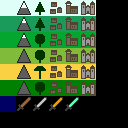
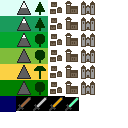
capitals & textures

diff --git a/include/GameClass.hpp b/include/GameClass.hpp
@@ -47,6 +47,7 @@ class Game{
                 GenerateForest();
                 GenerateMountains();
                 AdjustMountainZones();
+                GenerateCapitals();
                 InitButtons();
                 m_buttonsObjects.emplace_back(
                     m_renderer,m_font,m_buttons[0],
@@ -54,10 +55,21 @@ class Game{
                     m_width-(m_width/10),
                     0,
                     m_width/10,m_width/10,240,240,240);
-                    CreateMapTexture(); 
+                    CreateMapTexture();
+                    m_atlasTexture = SDL_CreateTextureFromSurface(m_renderer, m_atlasSurface);
+                    if (!m_atlasTexture) {
+                        SDL_Log("Failed to create atlas texture: %s", SDL_GetError());
+                    }
+                    if (m_atlasTexture) {
+                        SDL_SetTextureScaleMode(m_atlasTexture, SDL_SCALEMODE_PIXELART);
+                    }
+                    m_atlasTileSize = m_atlasSurface->w / 8;
+                    SDL_DestroySurface(m_atlasSurface);
+                    m_atlasSurface = nullptr;
         }
         ~Game() {
             if (m_mapTexture) SDL_DestroyTexture(m_mapTexture);
+            if (m_atlasTexture) SDL_DestroyTexture(m_atlasTexture);
         }
         void Render() {
             SDL_SetRenderDrawColor(m_renderer, 0, 0, 0, 255);
@@ -85,12 +97,32 @@ class Game{
                     SDL_RenderTexture(m_renderer, m_mapTexture, nullptr, &dest);
                 }
             }
+            RenderBuildings();
 
             SDL_SetRenderClipRect(m_renderer, nullptr);
 
             m_buttonsObjects[0].RenderButton();
         }
+        void RenderBuildings() {
+            float tileSize = (m_height / N) * zoom;
+            for (int i = 0; i < N; ++i) {
+                for (int j = 0; j < N; ++j) {
+                    const Tile& tile = Map[i * N + j];
+                    if (tile.buildingLevel == 0) continue;
 
+                    float screenX = Otstup + (j - panX) * tileSize;
+                    float screenY = (i - panY) * tileSize;
+
+                    int srcX0 = (2 + tile.buildingLevel) * m_atlasTileSize;
+                    int srcY0 = (tile.zone >= 0) ? tile.zone * m_atlasTileSize : 0;
+
+                    SDL_FRect srcRect = { (float)srcX0, (float)srcY0, (float)m_atlasTileSize, (float)m_atlasTileSize };
+                    SDL_FRect dstRect = { screenX, screenY, tileSize, tileSize };
+
+                    SDL_RenderTexture(m_renderer, m_atlasTexture, &srcRect, &dstRect);
+                }
+            }
+        }
         void CreateMap() {
             std::mt19937 rng(Seed);
             std::vector<int> permutation(256);
@@ -221,8 +253,7 @@ class Game{
                     }
 
                     Map[i * N + j] = {static_cast<uint16_t>(i), static_cast<uint16_t>(j), 
-                    static_cast<uint8_t>(biome), static_cast<int8_t>(zone)};
-                    Map[i * N + j].mountain = false;
+                    static_cast<uint8_t>(biome), static_cast<int8_t>(zone), false, false, 0};
                 }
             }
             m_perm = p;
@@ -504,6 +535,43 @@ class Game{
             }
             Map = std::move(newMap);
         }
+        void GenerateCapitals() {
+            const int targetCount = 100;
+            const float minDist = 10.0f;
+            std::vector<std::pair<int,int>> positions;
+            std::mt19937 rng(Seed);
+            std::uniform_int_distribution<int> dist(0, N-1);
+
+            auto distance = [&](int x1, int y1, int x2, int y2) {
+                int dx = std::abs(x1 - x2);
+                int dy = std::abs(y1 - y2);
+                dx = std::min(dx, N - dx);
+                dy = std::min(dy, N - dy);
+                return std::sqrt(dx*dx + dy*dy);
+            };
+
+            int attempts = 0;
+            const int maxAttempts = 10000;
+            while (positions.size() < targetCount && attempts < maxAttempts) {
+                int x = dist(rng);
+                int y = dist(rng);
+                int idx = y * N + x;
+                if (Map[idx].biome != 0) continue;
+
+                bool ok = true;
+                for (auto& pos : positions) {
+                    if (distance(x, y, pos.first, pos.second) < minDist) {
+                        ok = false;
+                        break;
+                    }
+                }
+                if (ok) {
+                    positions.emplace_back(x, y);
+                    Map[idx].buildingLevel = 3;
+                }
+                attempts++;
+            }
+        }
         void HandleTileClick(int mouseX, int mouseY) {
             if (mouseX >= Otstup && mouseX <= Otstup + m_height && mouseY >= 0 && mouseY <= m_height) {
                 float tileSize = (m_height / N) * zoom;
@@ -602,6 +670,7 @@ class Game{
             int8_t zone;
             bool forest;
             bool mountain;
+            uint8_t buildingLevel;
         };
         
         void InitButtons(){
@@ -610,6 +679,7 @@ class Game{
     
         private:
         SDL_Texture* m_mapTexture;
+        SDL_Texture* m_atlasTexture;
         SDL_Surface* m_atlasSurface;
         SDL_Renderer* m_renderer;
         TTF_Font* m_font;
@@ -620,6 +690,7 @@ class Game{
         std::vector<int> m_perm;
         const uint16_t N = 256;
         int Otstup=(m_width-m_height)/2;
+        int m_atlasTileSize;
         std::vector<std::string>m_buttons;
         std::vector<Button>m_buttonsObjects;
         bool isDragging = false;
